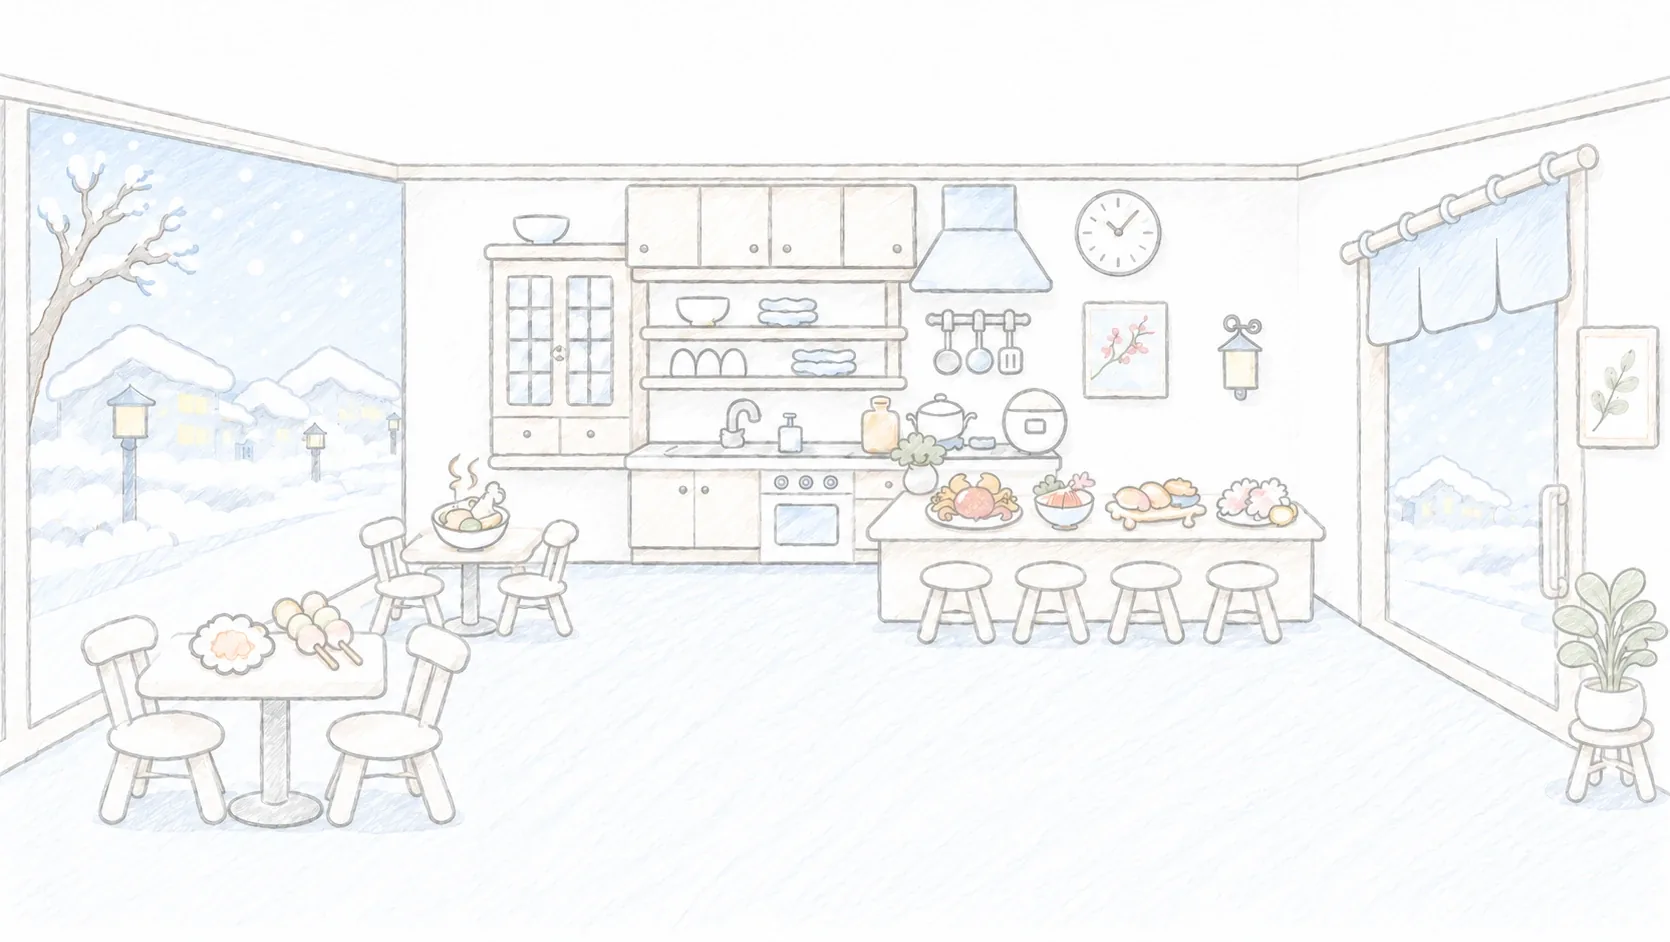
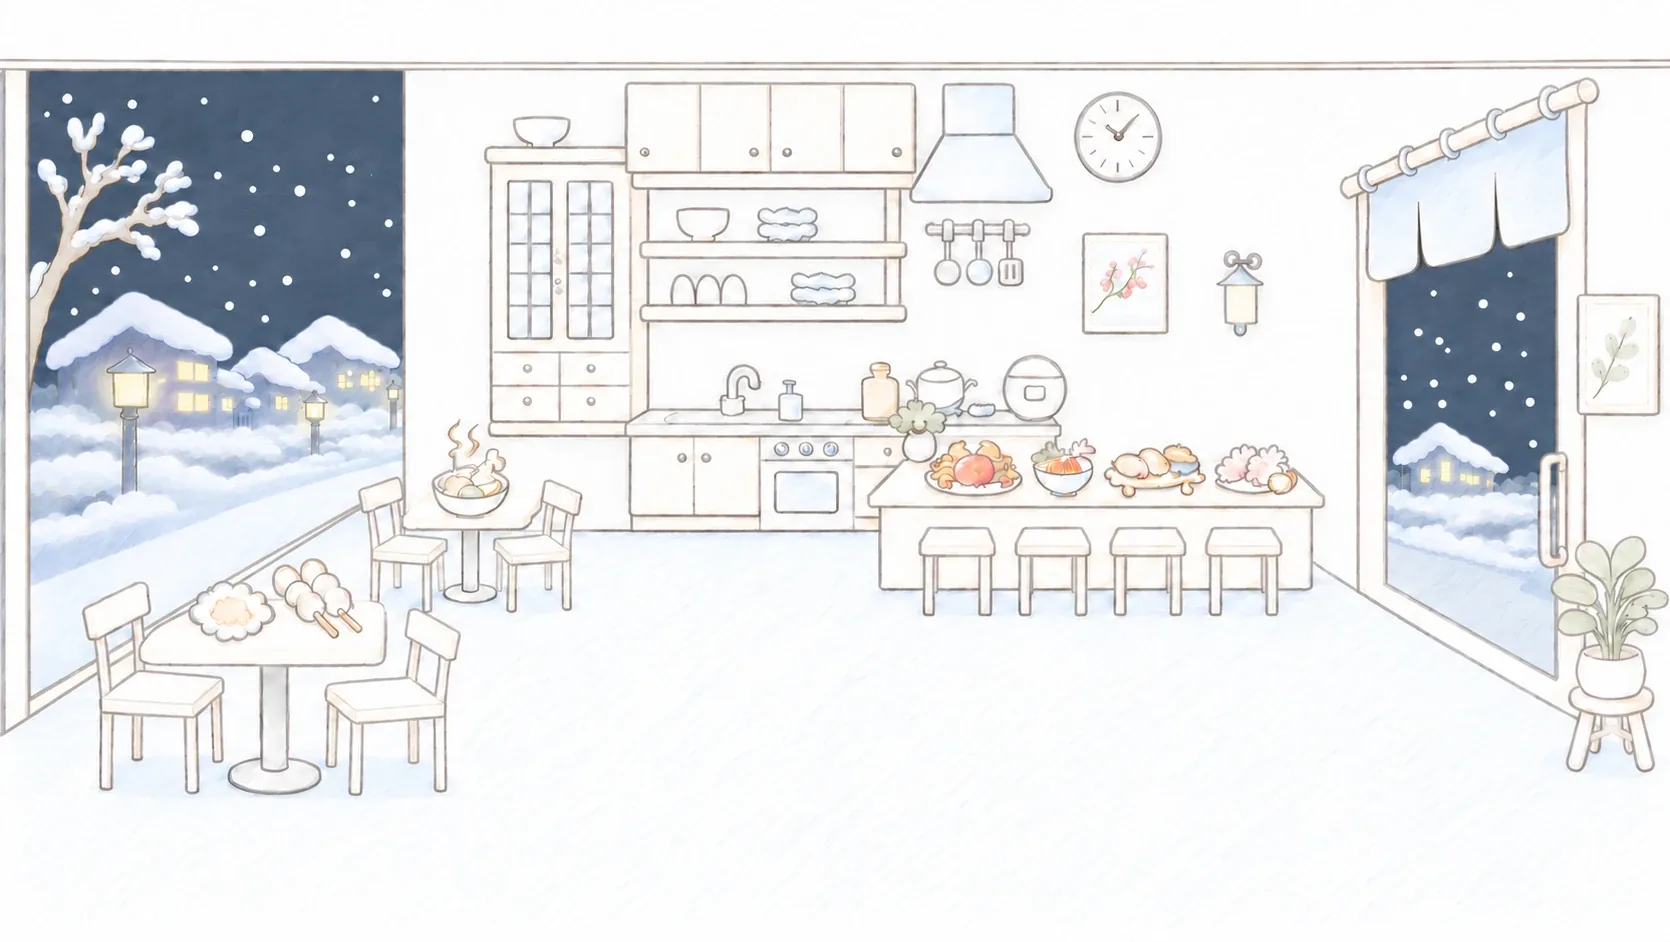
style: 想吃清單 night kitchen picture with snow, lamps and steam placed on it

Changed region(s): [[0.0, 0.0616, 1.0, 0.8928]]

diff --git a/src/component/WishlistScene.jsx b/src/component/WishlistScene.jsx
@@ -11,25 +11,25 @@ const pct = (value, total) => `${(value / total) * 100}%`;
 // The glass of the big window and of the door, as polygons in picture pixels;
 // the window stops above the tables standing in front of it.
 const WINDOWS = [
-  [[30, 110], [400, 182], [400, 515], [30, 620]],
-  [[1372, 335], [1562, 330], [1562, 705], [1380, 618]],
+  [[30, 72], [402, 72], [402, 478], [30, 580]],
+  [[1372, 250], [1550, 248], [1550, 700], [1380, 660]],
 ];
 
 // Street lamps outside: centre and glow radius.
 const LAMPS = [
-  { x: 128, y: 415, r: 66, delay: 0 },
-  { x: 315, y: 435, r: 38, delay: -2.1 },
-  { x: 393, y: 420, r: 30, delay: -4.3 },
+  { x: 133, y: 375, r: 64, delay: 0 },
+  { x: 315, y: 405, r: 36, delay: -2.1 },
+  { x: 393, y: 390, r: 28, delay: -4.3 },
 ];
 
 // Where steam rises: the top of each hot dish.
 const STEAM = [
-  { x: 470, y: 508 },
-  { x: 975, y: 475 },
-  { x: 1065, y: 482 },
-  { x: 940, y: 398 },
-  { x: 1015, y: 388 },
-  { x: 232, y: 628 },
+  { x: 470, y: 470 },
+  { x: 975, y: 442 },
+  { x: 1065, y: 455 },
+  { x: 940, y: 365 },
+  { x: 1030, y: 360 },
+  { x: 232, y: 595 },
 ];
 
 // A fixed pseudo-random snowfall for each window, the same on every render.
